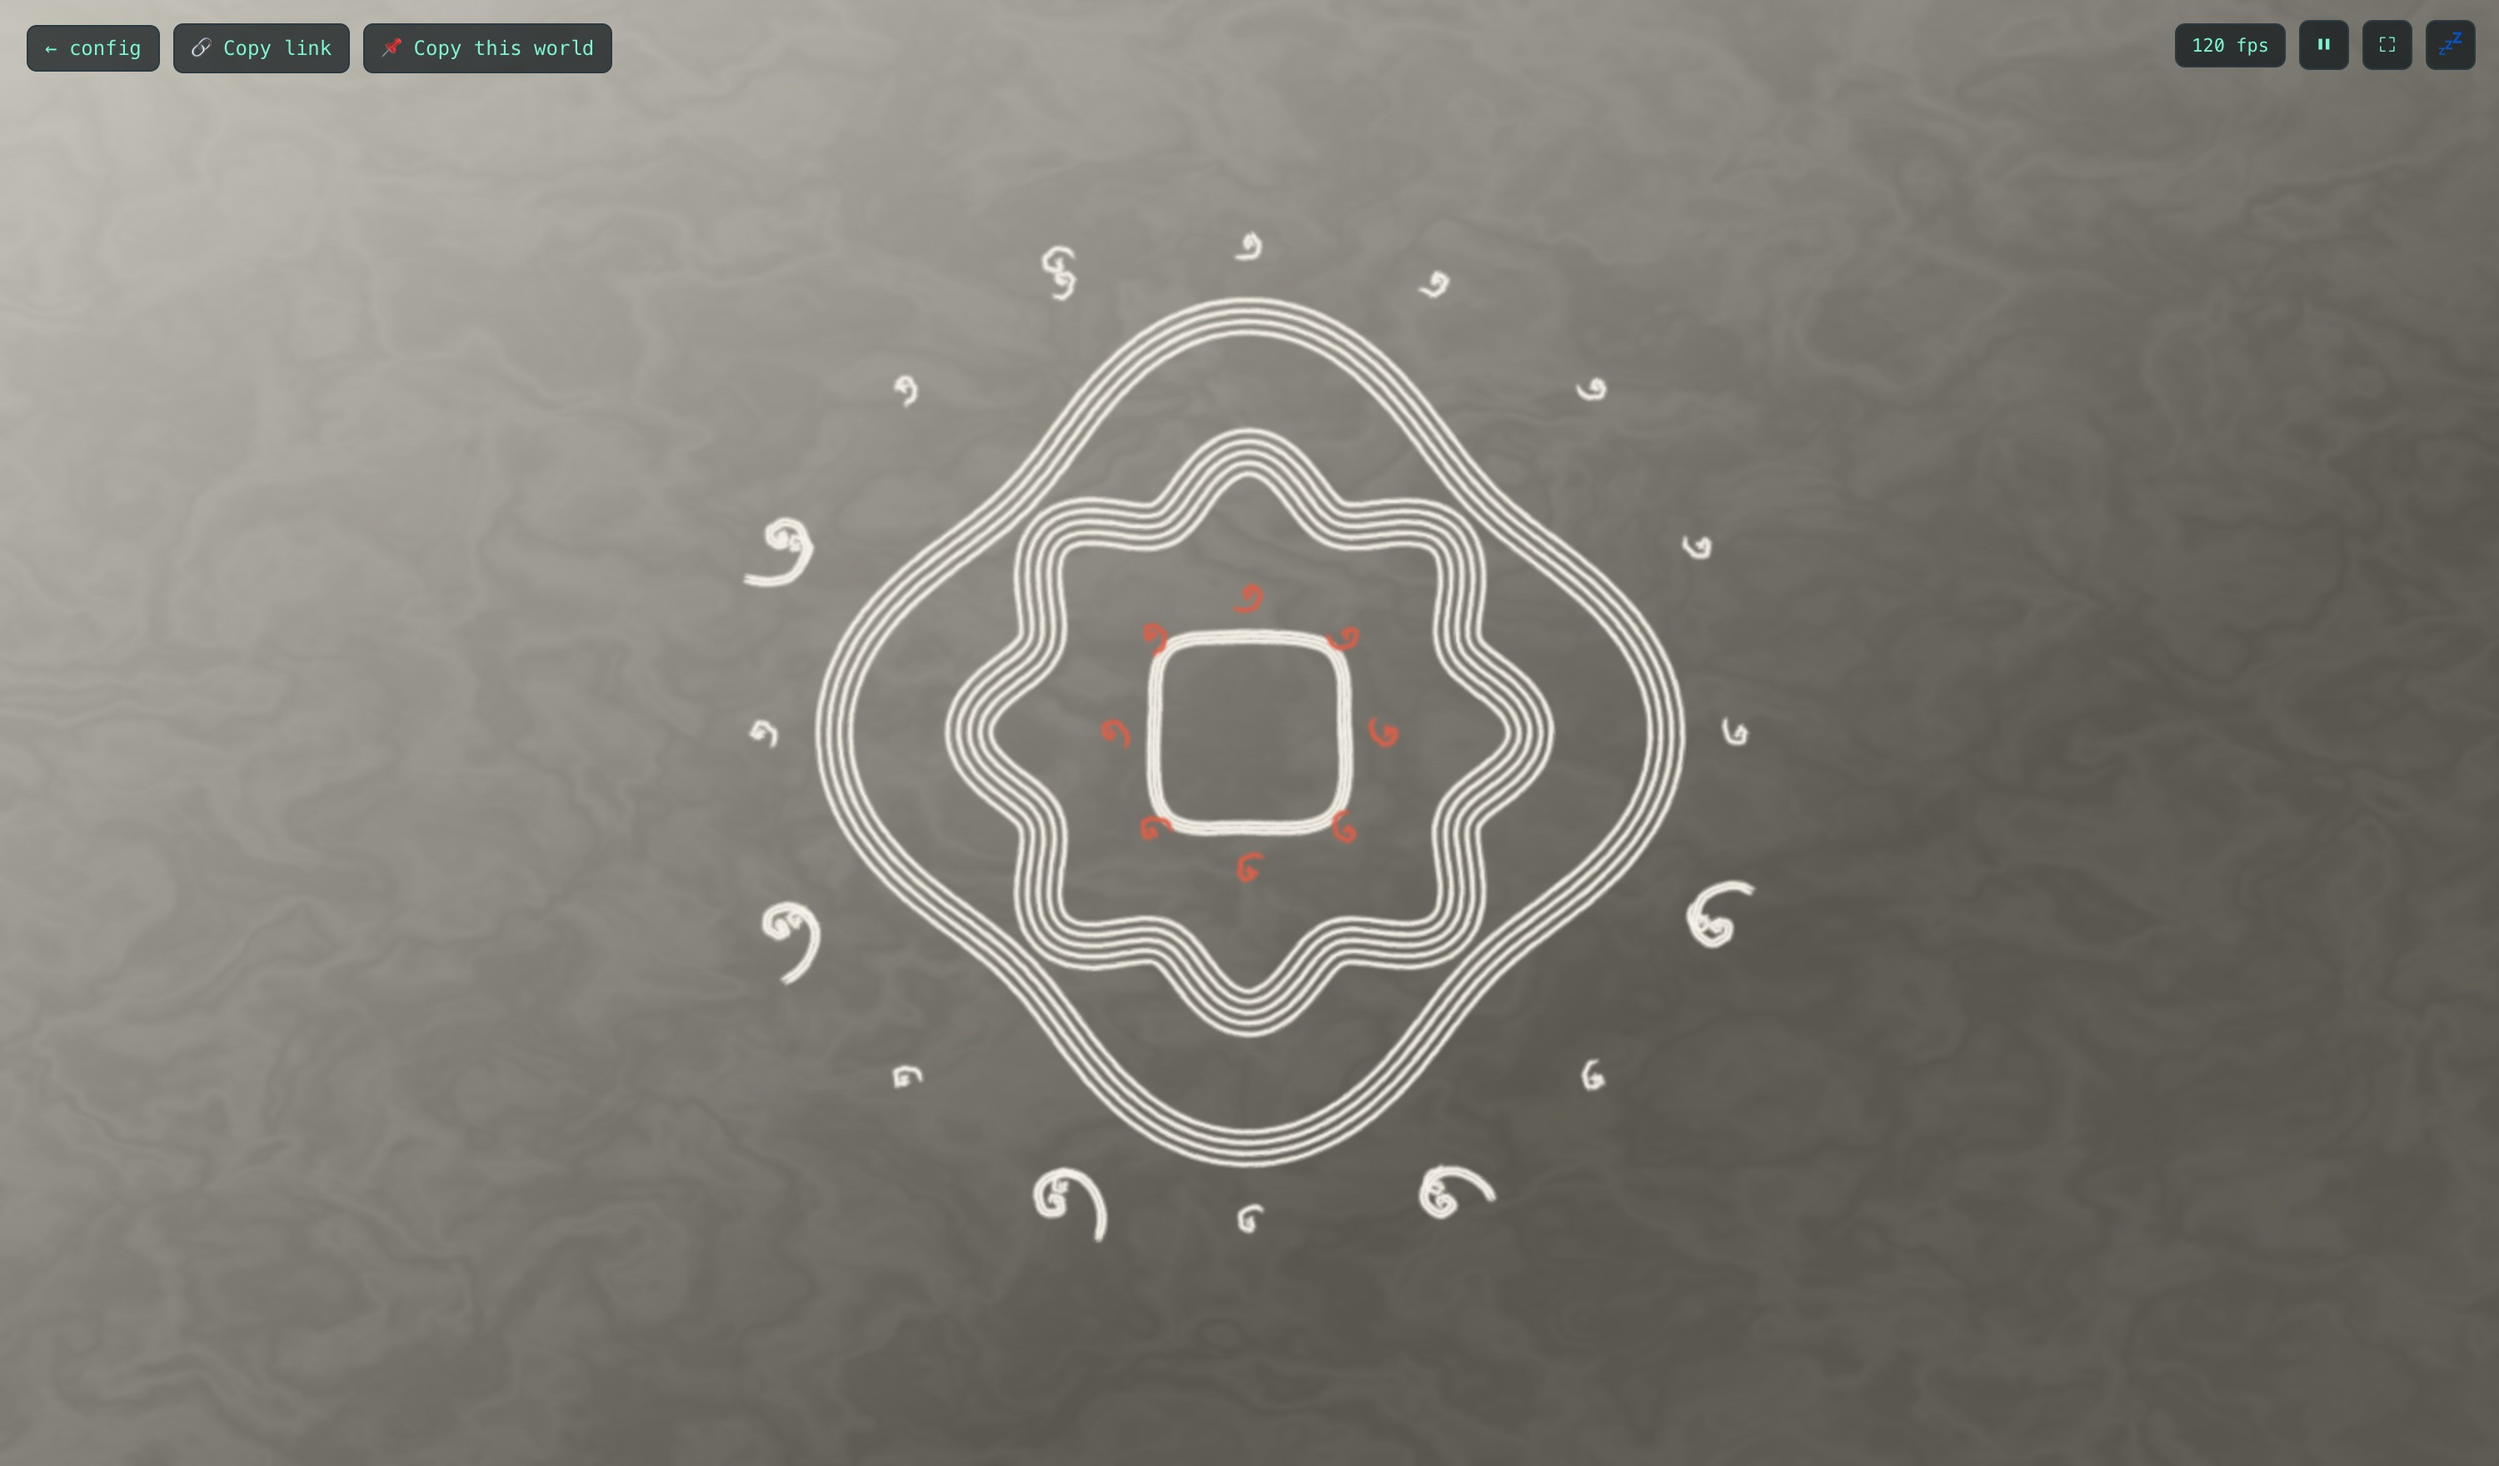
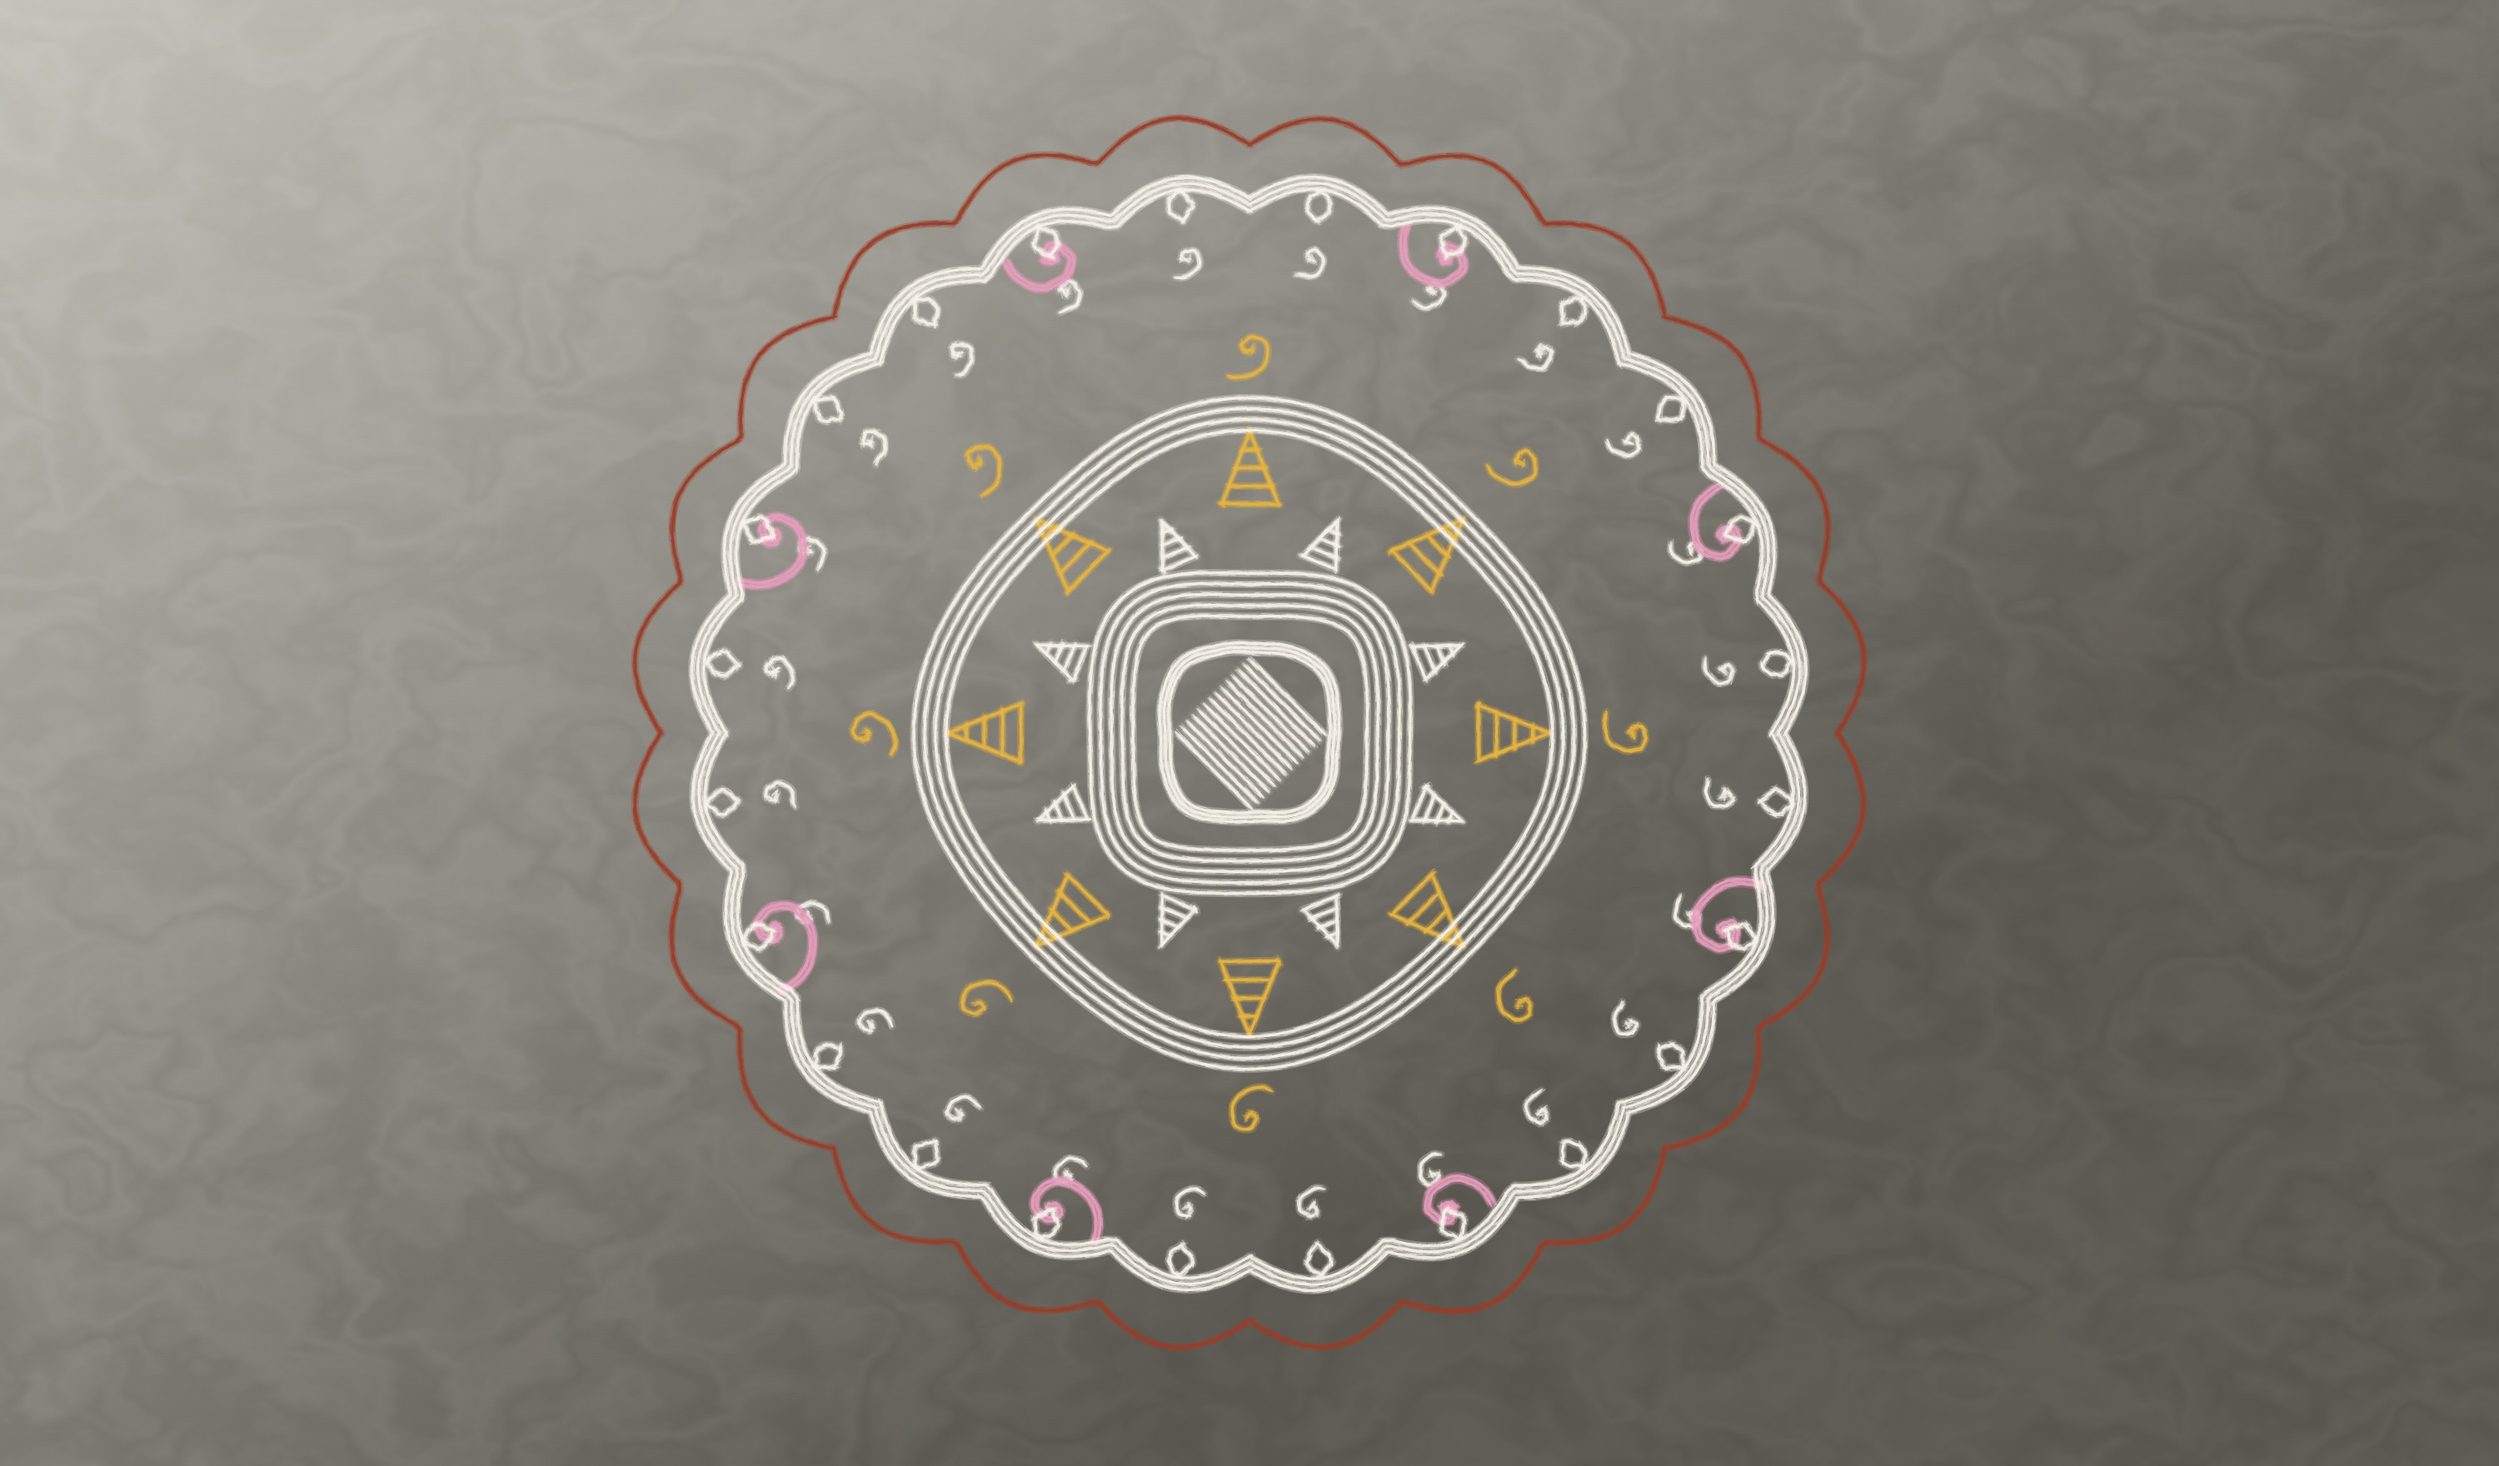
kolam: retake the shipped capture — the committed one was mid-draw

Changed region(s): [[0.248, 0.0625, 0.744, 0.9375], [0.0, 0.0, 0.248, 0.0625], [0.868, 0.0, 0.992, 0.0625]]

diff --git a/docs/mockups/README.md b/docs/mockups/README.md
@@ -35,4 +35,4 @@ with tweaks, the HTML can.
 | 2026-09-17 | [Kolam — sikku probe](2026-09-17-kolam.html) (interactive) | #349 the single-unbroken-line construction, built first and **superseded**. Dots are the VERTICES of a grid graph, the cells between them are its EDGES, and a spanning tree of those edges merges every dot's circle into exactly one closed curve — a kambi kolam. Verified in Chrome: 121 dots → 120 merges → **1 closed line**, every node degree 2, 484 arcs (= 121×4 exactly, since each join removes two dot-quarters and adds two connectors). The boundary needs no special case, which is the tell the model is right: an outer dot simply has fewer edges, so its unflipped outward quarters ARE the scalloped edge in the photographs. ⚠ **What it cannot do is the reason it was superseded:** every part of the picture is the same quarter-arc at the same scale, so it produces one uniform loop-weave and can never yield concentric registers or motif variety. A *random* spanning tree also reads as a wandering maze — symmetric orbits, not one-edge-at-a-time merging, is what makes a single line look drawn rather than solved. Prior art: this generator family is already shipped as **Celtic** (#89), a 45° billiard on a checkerboard of crossings |
 | 2026-09-17 | [Kolam — bundle-stroke probe](2026-09-17-kolam-bundle.html) (interactive) | #349 the question that actually decides the piece: **is the kolam look carried by the RENDERING rather than by a generator?** The composition here is deliberately Mandala's (#49) — concentric registers, N-fold motif repetition — because both candidate structures are already shipped, so what is under test is the drawing. Every path is stroked as a **bundle of parallel offset curves**, which nothing in this repo does (grepped: zero matches across Mandala and Celtic), and it is the dominant texture in every reference photograph. ⚠ **The load-bearing parameter is the gap : width RATIO, not either alone** — at 1.2× the six strokes fuse into one fat white band and the effect vanishes entirely; at ~4× they read as a bundle. Second trap: a bundle's spread is `(count-1)·gap`, so six strokes at the ring's gap spread ~45px and **swallow** a centre motif of 57px radius — every small motif needs its own count and gap scale. Offsetting is also not "move each point along its normal": vertices need the angle bisector scaled by 1/cos(θ/2) (miter, and capped, or a hairpin throws a spike across the picture), and wherever the offset exceeds the local radius of curvature the curve turns inside out and must be culled by testing each offset segment against its source direction |
 | 2026-09-17 | [Kolam — ground A/B](2026-09-17-kolam-ground-ab.jpeg) | #349 the owner ground pick, one seed, only `background` changed. Left **concrete `#8e8b84`**, right **ochre `#a98c5c`**. The decisive difference is not the 6% contrast gap (3.07 vs 2.88 for rice flour, so only concrete clears the 3:1 bar) — it is that **ochre shares a hue with its own palette**: the turmeric curls and the cream chalk vanish into the floor, while on concrete every chalk separates. Concrete chosen. An earlier draft of the spec defaulted to ochre and argued "warm ground vs dusk", which was a strawman — a warm ground that passes the bar was available all along |
-| 2026-09-17 | [Kolam — as shipped](2026-09-17-kolam-shipped.jpeg) | #349 the built piece at defaults, seed 12345, 1500×880, 120 fps. Hatched centre, two bundled bands, turmeric hatched triangles, pink spiral terminals, a scalloped white lace edge and the red kaavi line — on contoured concrete. Note what colour does and does not touch: the bands, the centre frame and the lace are all rice white, because a band in coloured chalk is at once the lowest-contrast form the generator can make and the line the eye reads the composition from. Chalk lives on the motifs only, and that rule is enforced by role rather than by a stroke-length proxy |
+| 2026-09-17 | [Kolam — as shipped](2026-09-17-kolam-shipped.jpeg) | #349 the built piece at defaults, seed 12345, 1500×880, 120 fps. Hatched centre, two bundled bands, turmeric hatched triangles, pink spiral terminals, a scalloped white lace edge and the red kaavi line — on contoured concrete. ⚠ **Retaken after the code panel.** The first committed capture was a **mid-draw frame** whose caption named six features of which four were provably absent — the panel proved it by radial pixel analysis (zero red pixels anywhere near r/Rmax 0.95, where the kaavi ring lives; zero white beyond 0.88, where the lace is). Lace and kaavi are drawn last, so a mid-draw frame has neither, and a capture taken to a file is not evidence of the sentence written under it. This one is also visibly sharper: the ink layer is device px now, where it was CSS px and every stroke was being smoothed up 2× — which softened exactly the 1.8 px lines at 6.6 px spacing the piece's headline claim rests on |
